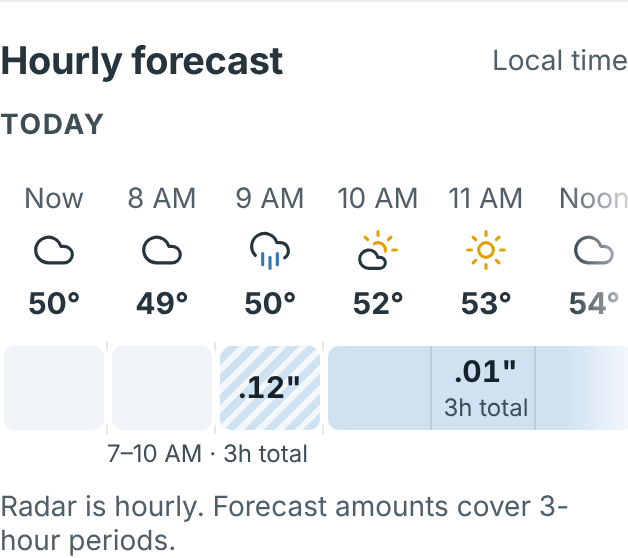
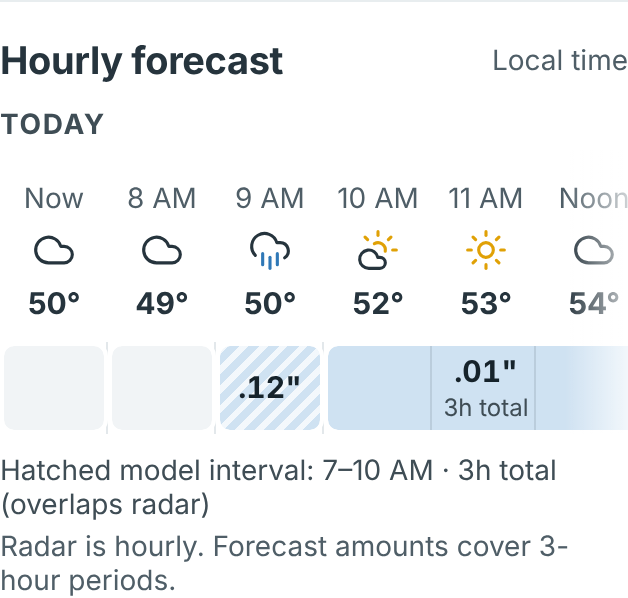
Hourly: state the shortened model interval's range beneath the grid (design review correction)
Claude-Session: https://claude.ai/code/session_01DGZCEbHLV5VJSPz5Ug97vc

diff --git a/card/src/lib/presentation.test.ts b/card/src/lib/presentation.test.ts
@@ -94,10 +94,16 @@ describe('hourly forecast: continuous hourly scale', () => {
     const s = liveThu(), b = hourlyGrid(s).bands.find(x => x.shortened)!;
     expect(b).toMatchObject({ start: 2, end: 3, wholeStart: 0, wholeEnd: 3, res: 3, amount: '.12"' });
     const h = html(s);
-    expect(h).toMatch(/class="hband hband-rain hband-model hband-group hband-short" data-from="2" data-to="3" data-res="3"[^>]*><b>.12"<\/b><small>7–10 AM · 3h total<\/small>/);
+    expect(h).toMatch(/class="hband hband-rain hband-model hband-group hband-short" data-from="2" data-to="3" data-res="3"[^>]*><b>.12"<\/b><\/div>/);
+    expect(h).toContain('<p class="hourly-overlap">Hatched model interval: 7–10 AM · 3h total (overlaps radar)</p><p class="hourly-note">');
     expect(between(h, 'hgrid-bands', 'hourly-note')).not.toMatch(/<button|role="radio"|tabindex/);
     const t = todayTimeline(s)!;
     expect(eligibleBars(t).some(x => x.coversFrom !== null)).toBe(false);
+  });
+  it('no overlap line when no shortened model interval is in the hourly window', () => {
+    const s = stormWed();
+    expect(hourlyGrid(s).bands.some(b => b.shortened)).toBe(false);
+    expect(html(s)).not.toContain('hourly-overlap');
   });
   it('supporting line replaces the amounts explainer', () => {
     const h = html(liveThu());

diff --git a/card/src/components/WeatherCard.tsx b/card/src/components/WeatherCard.tsx
@@ -280,10 +280,12 @@ function HourlyGrid({ s }: { s: Scenario }) {
             className={`hband hband-${b.kind} hband-${b.src}${b.res > 1 ? ' hband-group' : ''}${b.shortened ? ' hband-short' : ''}`}
             data-from={b.start} data-to={b.end} data-res={b.res} style={{ left: at(b.start), width: at(b.end - b.start) }}>
             {b.amount && <b>{b.amount}</b>}
-            {b.res > 1 && (b.amount || b.shortened) && <small>{b.shortened ? `${clockRange(s, b.wholeStart, b.wholeEnd)} · ${b.res}h total` : `${b.res}h total`}</small>}
+            {b.res > 1 && b.amount && !b.shortened && <small>{b.res}h total</small>}
           </div>)}</div>
       </div>
     </HourlyRow>
+    {g.bands.filter(b => b.shortened).map(b =>
+      <p className="hourly-overlap" key={`ov-${b.start}`}>Hatched model interval: {clockRange(s, b.wholeStart, b.wholeEnd)} · {b.res}h total (overlaps radar)</p>)}
     <p className="hourly-note">Radar is hourly. Forecast amounts cover 3-hour periods.</p></section>;
 }
 

diff --git a/card/src/styles.css b/card/src/styles.css
@@ -401,7 +401,6 @@ details.nws-advisory summary svg:first-child,details.nws-statement summary svg:f
 .hband-group{background-image:repeating-linear-gradient(90deg,transparent 0 calc(var(--hcell) - 3px),rgba(38,52,61,.12) calc(var(--hcell) - 3px) calc(var(--hcell) - 2px))}
 /* model period that starts before the radar hours end: same hatching as the timeline, original range and total kept */
 .hband-short{background-image:repeating-linear-gradient(135deg,rgba(255,255,255,.75) 0 3px,transparent 3px 7px);overflow:visible}
-.hband-short small{position:absolute;right:6px;bottom:-19px;background:#fff;padding-left:4px}
-.hband-short:has(small){margin-bottom:0}
-.hgrid-bands:has(.hband-short small){margin-bottom:18px}
+.hourly-overlap{margin:10px 0 0;font-size:14px;color:#3f4d55;text-align:left}
+.hourly-overlap+.hourly-note{margin-top:4px}
 .hourly-note{margin:10px 0 0;font-size:14px;color:#4f5e67}

diff --git a/card/src/lib/option-b.test.ts b/card/src/lib/option-b.test.ts
@@ -115,9 +115,10 @@ describe('PR #12 final refinement', () => {
 });
 
 describe('PR #12 design review corrections', () => {
-  it('(superseded Nov 19) the overlapping model band keeps its original range: "1–4 AM · 3h total"; others "3h total"', () => {
+  it('(superseded Nov 19) the overlapping model band is explained beneath the grid; ordinary model bands "3h total"', () => {
     const h = html(stormWedNight());
-    expect(h.match(/<small>1–4 AM · 3h total<\/small>/g)).toHaveLength(1);
+    expect(h).toContain('<p class="hourly-overlap">Hatched model interval: 1–4 AM · 3h total (overlaps radar)</p>');
+    expect(h).not.toMatch(/<small>1–4 AM/);
     expect(h).toMatch(/<small>3h total<\/small>/);
   });
   it('the storm-total window uses weekday and clock time', () => {

diff --git a/card/DECISIONS.md b/card/DECISIONS.md
@@ -139,8 +139,8 @@ Forecast calculations, thresholds and the default selection are unchanged.
 - Hourly forecast: one continuous hourly scale with equal cells, each hour's own icon and temperature.
   - Rain is one band per actual radar or model interval. A 3-hour amount appears once, with "3h total" and faint
     hour guides, and is never repeated per hour.
-  - A model band shortened by radar hours keeps its original range and total ("7–10 AM · 3h total"), uses the
-    timeline's overlap hatching, and is not selectable.
+  - A model band shortened by radar hours keeps its amount, uses the
+    timeline's overlap hatching, and is not selectable. Its original range and total are stated in a left-aligned line beneath the grid: "Hatched model interval: 7–10 AM · 3h total (overlaps radar)" (range from the actual interval).
   - At most 48 hours, ending where a complete interval ends. The line under it reads: "Radar is hourly.
     Forecast amounts cover 3-hour periods."
   - This supersedes the Option B hourly tiles (one tile per model block).
